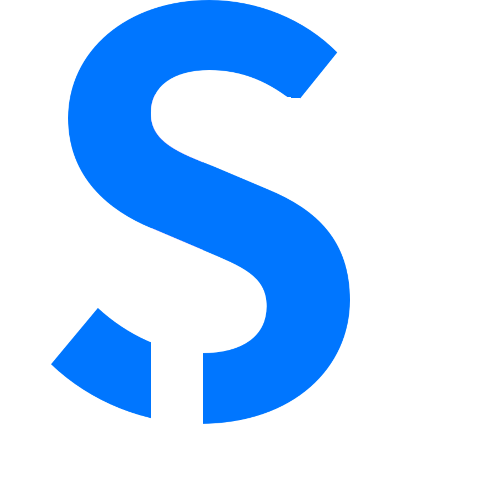
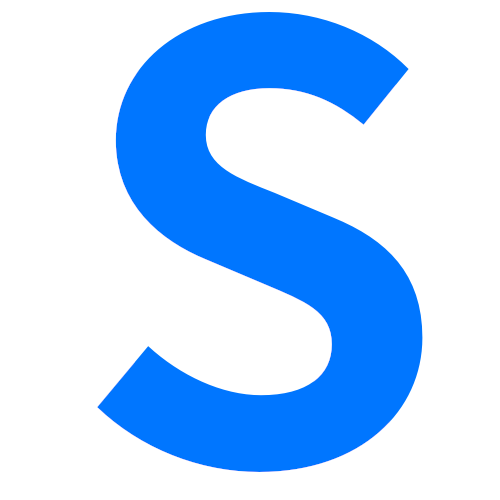
Updated website with new name and made content changes.

diff --git a/src/components/contact.js b/src/components/contact.js
@@ -15,10 +15,13 @@ export default function Contact() {
                     <Col className="text-center"><br /><h1 className="page-title">Contact</h1><br /></Col>
                 </Row>
                 <Row>
-                    <Col className="text-center"><a href="mailto:nick@schusterdevelopment.ca"><h1 id="email">nick@<span style={{color: "#0076ff"}}>schuster</span>development.ca</h1></a></Col>
+                    <Col className="text-center"><a style={{textDecoration: "none"}} href="mailto:nick@schustersoftware.ca"><h1 id="email">nick@<span style={{color: "#0076ff"}}>schuster</span>software.ca</h1></a></Col>
                 </Row>
                 <Row>
                     <Col className="text-center"><br /><h1 id="phone">+1 (250) 213 2918</h1><br /><br /></Col>
+                </Row>
+                <Row className="justify-content-center">
+                    <Col><a href="https://www.linkedin.com/in/nikolas-schuster-25184b16b/" ><img className="link-image" id="linkedin-logo" src={require("../images/linkedin-logo.png")} alt="LinkedIn"/></a><br /><br/></Col>
                 </Row>
             </Container>
         </React.Fragment>   

diff --git a/src/pages/index.js b/src/pages/index.js
@@ -6,34 +6,14 @@ import Header from "../components/header"
 import Home from "../components/home"
 import Contact from "../components/contact"
 import Footer from "../components/footer"
-import { Element, animateScroll as scroll } from 'react-scroll'
+import { Element } from 'react-scroll'
 
 // CSS.
 import "../css/global.scss"
 
 const index = () => {
-
-  const scrollToTop = () => {
-    scroll.scrollToTop();
-  }
-
-  // Determine if the scroll to top button is visible
-  const windowScrolled = () => {
-    if(window.scrollY === 0) {
-      document.getElementById("scroll-to-top").style.display = "none";
-    } else {
-      document.getElementById("scroll-to-top").style.display = "block"
-    }
-  }
-
-  React.useEffect(() => {
-    window.addEventListener('scroll', windowScrolled)
-    setTimeout(() => windowScrolled(), 50)
-  }, [])
-
   return (
     <React.Fragment>
-      <div id="scroll-to-top" onClick={scrollToTop} role="button" tabIndex={-1} onKeyPress={scrollToTop} aria-label="Scroll to top."></div>
       <div id="background">
         <div id="content-container">
           <Element name="home">

diff --git a/src/components/footer.js b/src/components/footer.js
@@ -28,15 +28,15 @@ const Footer = () => {
     return (
         <React.Fragment>
             <Container fluid id="footer-background">
-                <Row>
+                {/*<Row>
                     <Col className="text-center"><br /><h1>Links</h1><br /></Col>
                 </Row>
                 <Row className="justify-content-center">
                     <Col><a href="https://www.github.com/nickschuster"><img className="link-image" id="github-logo" src={require("../images/github-logo.png")} alt="GitHub"/></a></Col>
                     <Col><a href="https://www.linkedin.com/in/nikolas-schuster-25184b16b/" ><img className="link-image" id="linkedin-logo" src={require("../images/linkedin-logo.png")} alt="LinkedIn"/></a></Col>
-                </Row>
+                </Row>*/}
                 <Row>
-                    <Col className="text-center"><br /><br /><p>&#169; 2020 Schuster Development</p><br /></Col>
+                    <Col className="text-center"><br /><p>&#169; 2020 Schuster Software</p></Col>
                 </Row>
             </Container>
         </React.Fragment>

diff --git a/src/components/header.js b/src/components/header.js
@@ -22,9 +22,6 @@ export default function Header() {
                 <Col lg={2} xl={1} className="text-center">
                     <Link className="navbar-link" to="contact" spy={true} smooth={true}>Contact</Link>
                 </Col>
-                <Col lg={2} xl={1} className="text-center">
-                    <Link className="navbar-link" to="links" spy={true} smooth={true}>Links</Link>
-                </Col>
             </Row>
             <br />
             <hr id="header-break"/>

diff --git a/src/css/contact.scss b/src/css/contact.scss
@@ -3,6 +3,11 @@
 #email {
     color: white;
     font-size: clamp(5px, 5vw, 45px);
+    text-decoration: none !important;
+}
+
+#email:hover {
+    color: #0076ff;
 }
 
 #phone {
@@ -13,4 +18,12 @@
 #phone-details {
     color: white;
     font-size: clamp(10px, 3vw, 16px);
+}
+
+#linkedin-logo {
+    display: block;
+    margin-right: auto;
+    margin-left: auto;
+    width: 50px;
+    height: 50px;
 }

diff --git a/src/css/header.scss b/src/css/header.scss
@@ -22,9 +22,13 @@
     margin-right: auto;
     padding: 20px;
     color: white;
-    text-decoration-color: #0076ff;
     text-shadow: 5px 5px 50px black;
+    text-decoration: none !important;
     cursor: pointer;
+}
+
+.navbar-link:hover {
+    color: #0076ff !important;
 }
 
 .disabled-link {

diff --git a/src/css/home.scss b/src/css/home.scss
@@ -21,14 +21,13 @@
 
 .service-image:hover + .service-title {
     opacity: 1;
-    text-decoration: underline;
     color: #0076ff;
 }
 
 .service-title {
     padding: 20px;
     transition: 0.3s;
-    opacity: 0;
+    opacity: 1;
     border-radius: 5px;
     position: absolute;
     top: 0%;

diff --git a/src/css/global.scss b/src/css/global.scss
@@ -20,7 +20,7 @@
         width: 90%;
     }
     width: 60%;
-    background-color: rgba(92, 92, 92, 0.8);
+    background-color: rgba(92, 92, 92, 0.93);
     margin-left: auto;
     margin-right: auto;
 }
